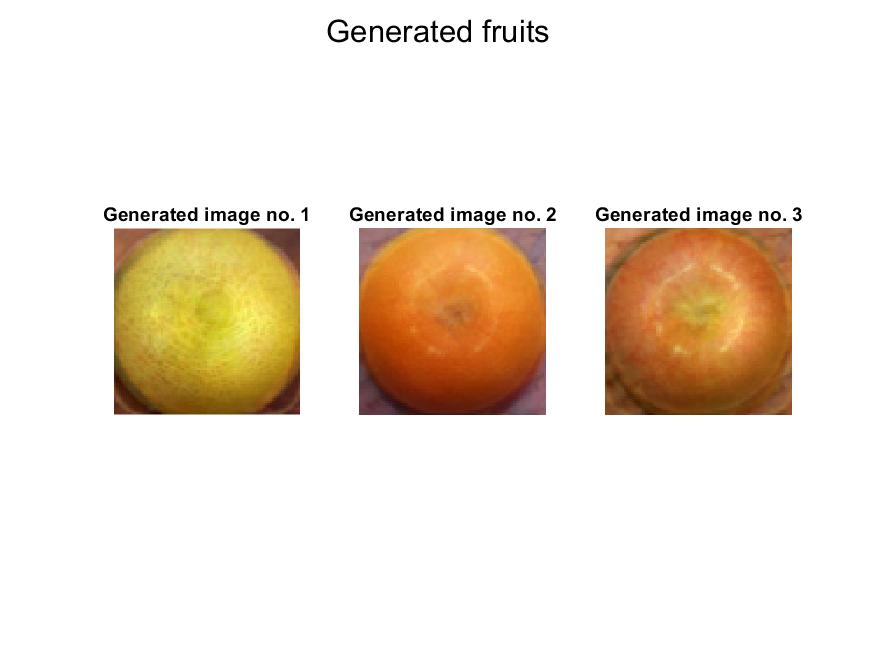
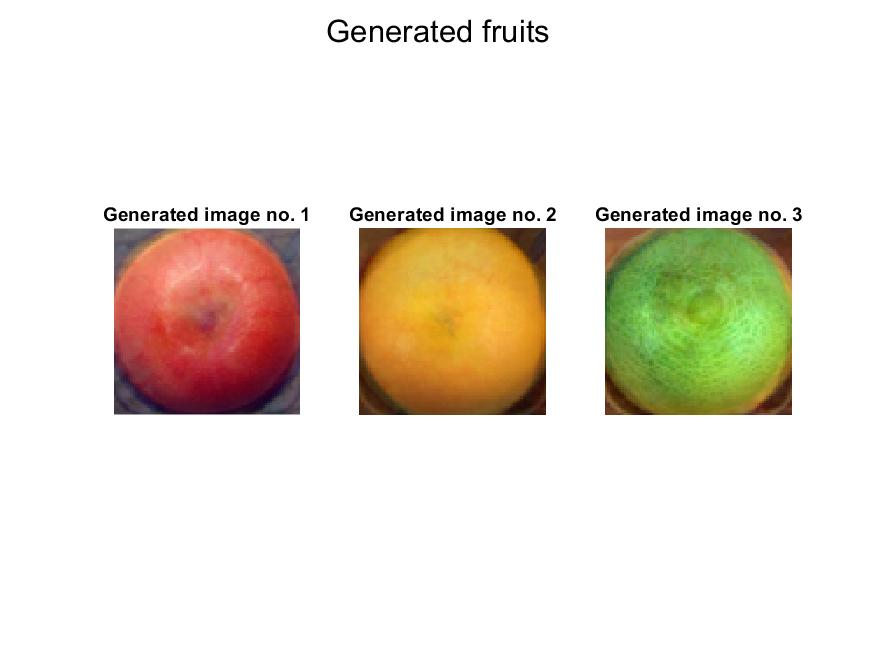
Q6: Fixed Q6 last part

Changed region(s): [[0.6789, 0.3354, 0.9257, 0.6402], [0.4011, 0.3354, 0.648, 0.6402], [0.1234, 0.3354, 0.3703, 0.6402]]

diff --git a/code/q6.m b/code/q6.m
@@ -1,7 +1,7 @@
 clc;
 clear;
 close all;
-rng(42);
+rng(300); % This seed gave the best results for image generation
 
 % Reading the data
 DATA_PATH = "../data/data_fruit/";
@@ -103,11 +103,11 @@ for i=1:16
     saveas(f, "plots/q6/comparison_"+i+".jpg");
 end
 
-% Part 3: Probabilistic PCA
+% Part 3:
 n_samples = 3;
-% Sampling the coefficients: coeffs ~ N(0, I)
+% Sampling the coefficients: coeffs ~ N(0, C_Sampled)
 mu_mvg = zeros(4,1);
-cov_mvg = diag(max(coeffs)-min(coeffs));
+cov_mvg = diag(eigvals(1:4));
 sampled_coeffs = mvnrnd(mu_mvg, cov_mvg, n_samples);
 generated_data = mu + Q4*sampled_coeffs';
 
